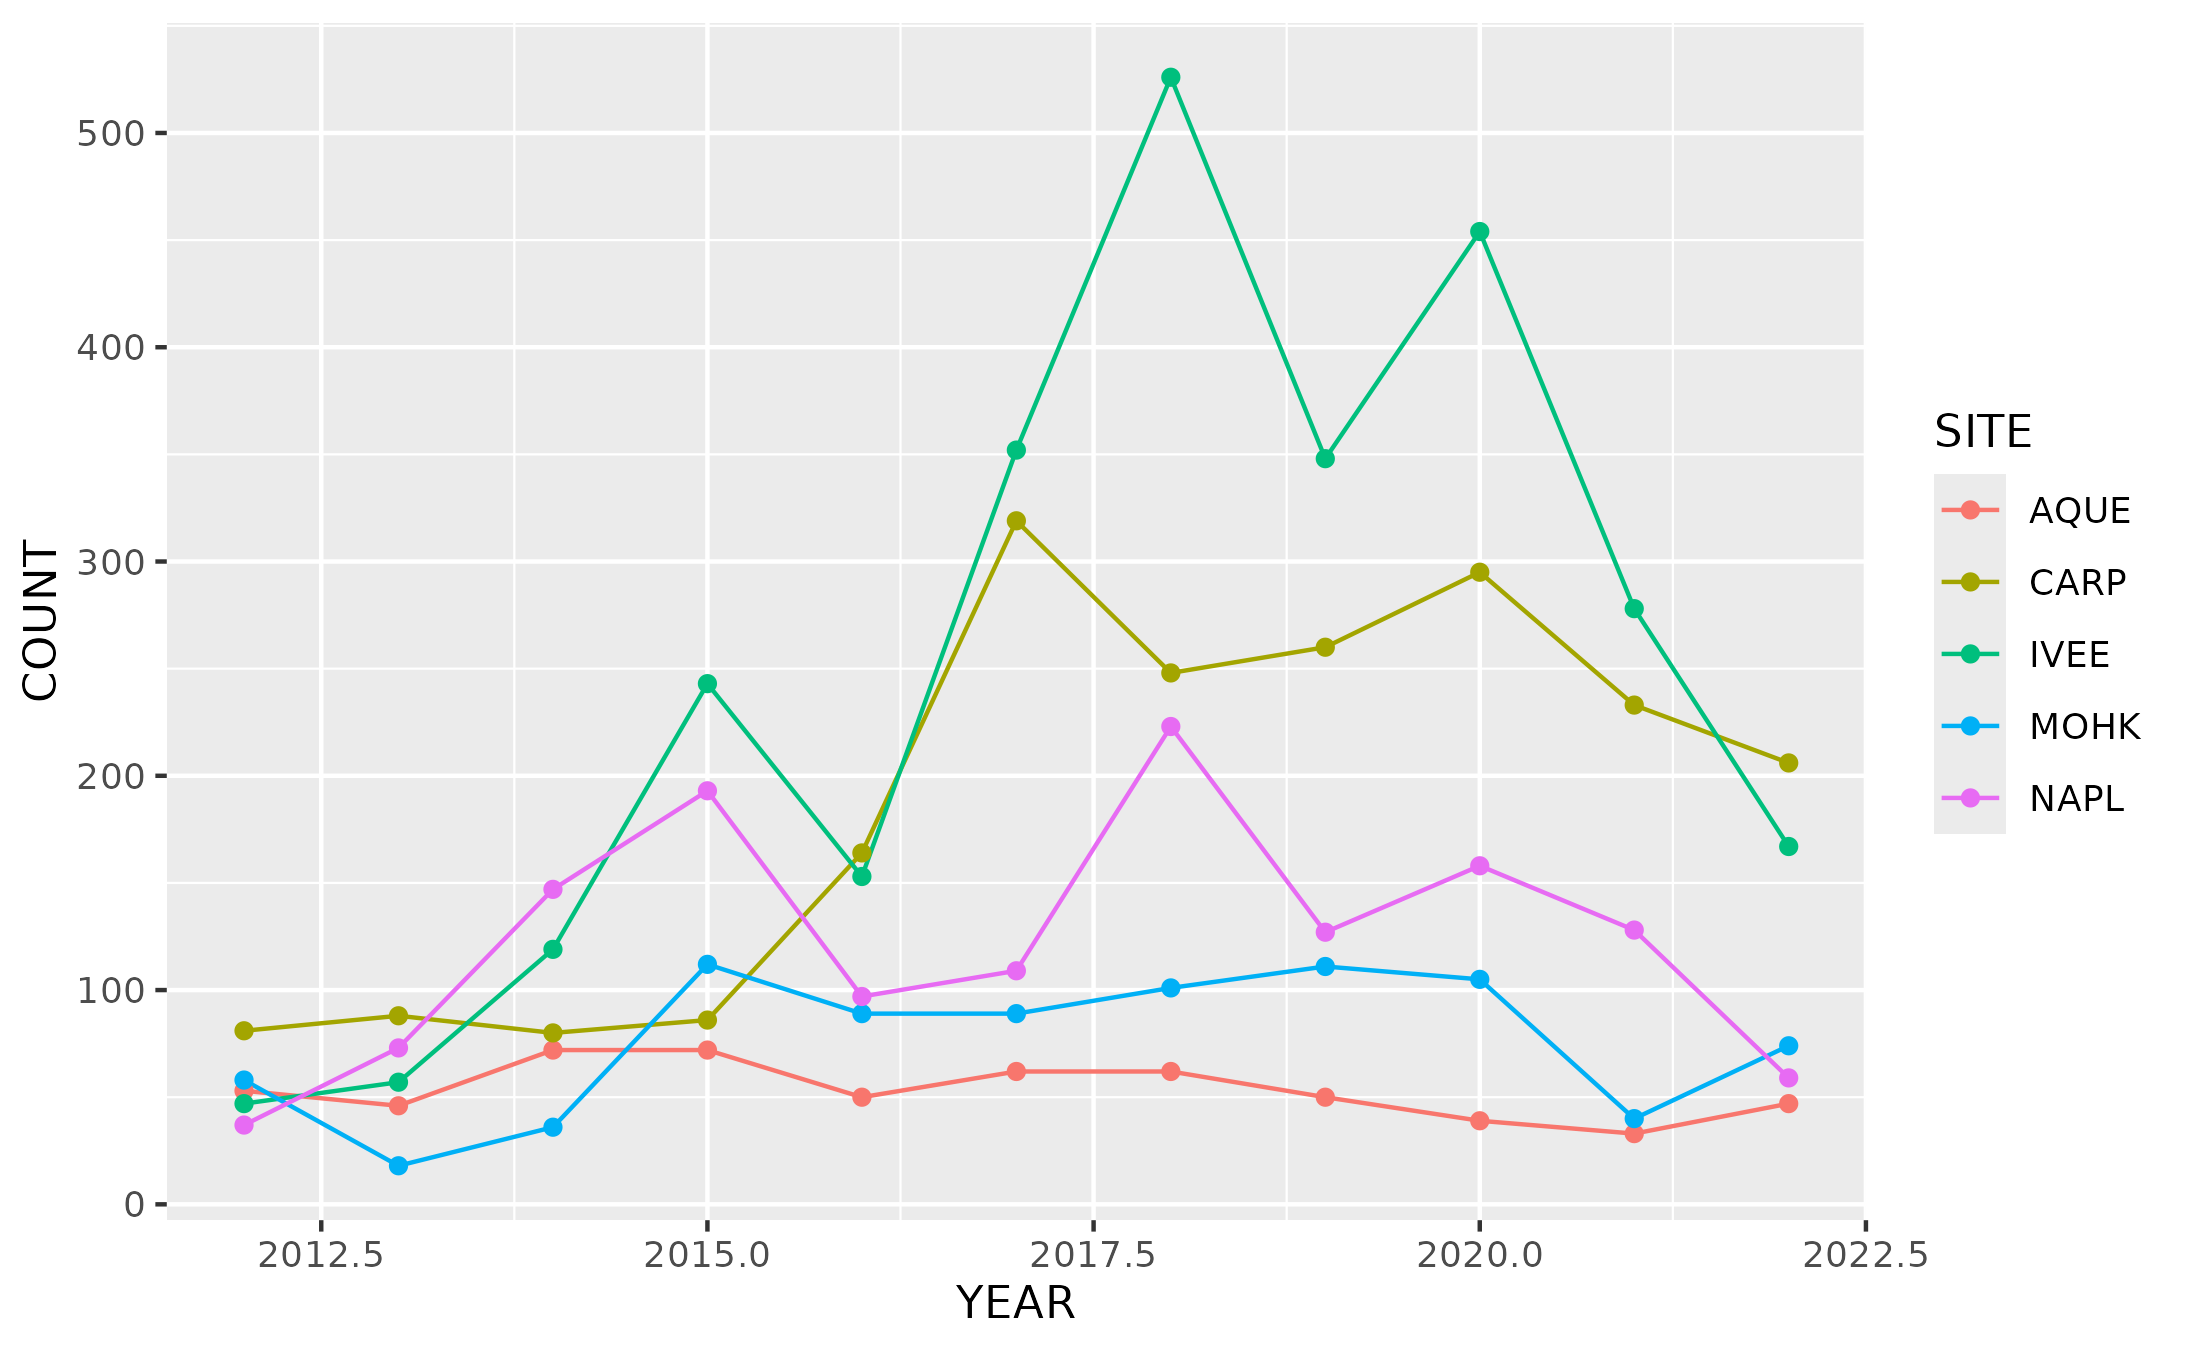
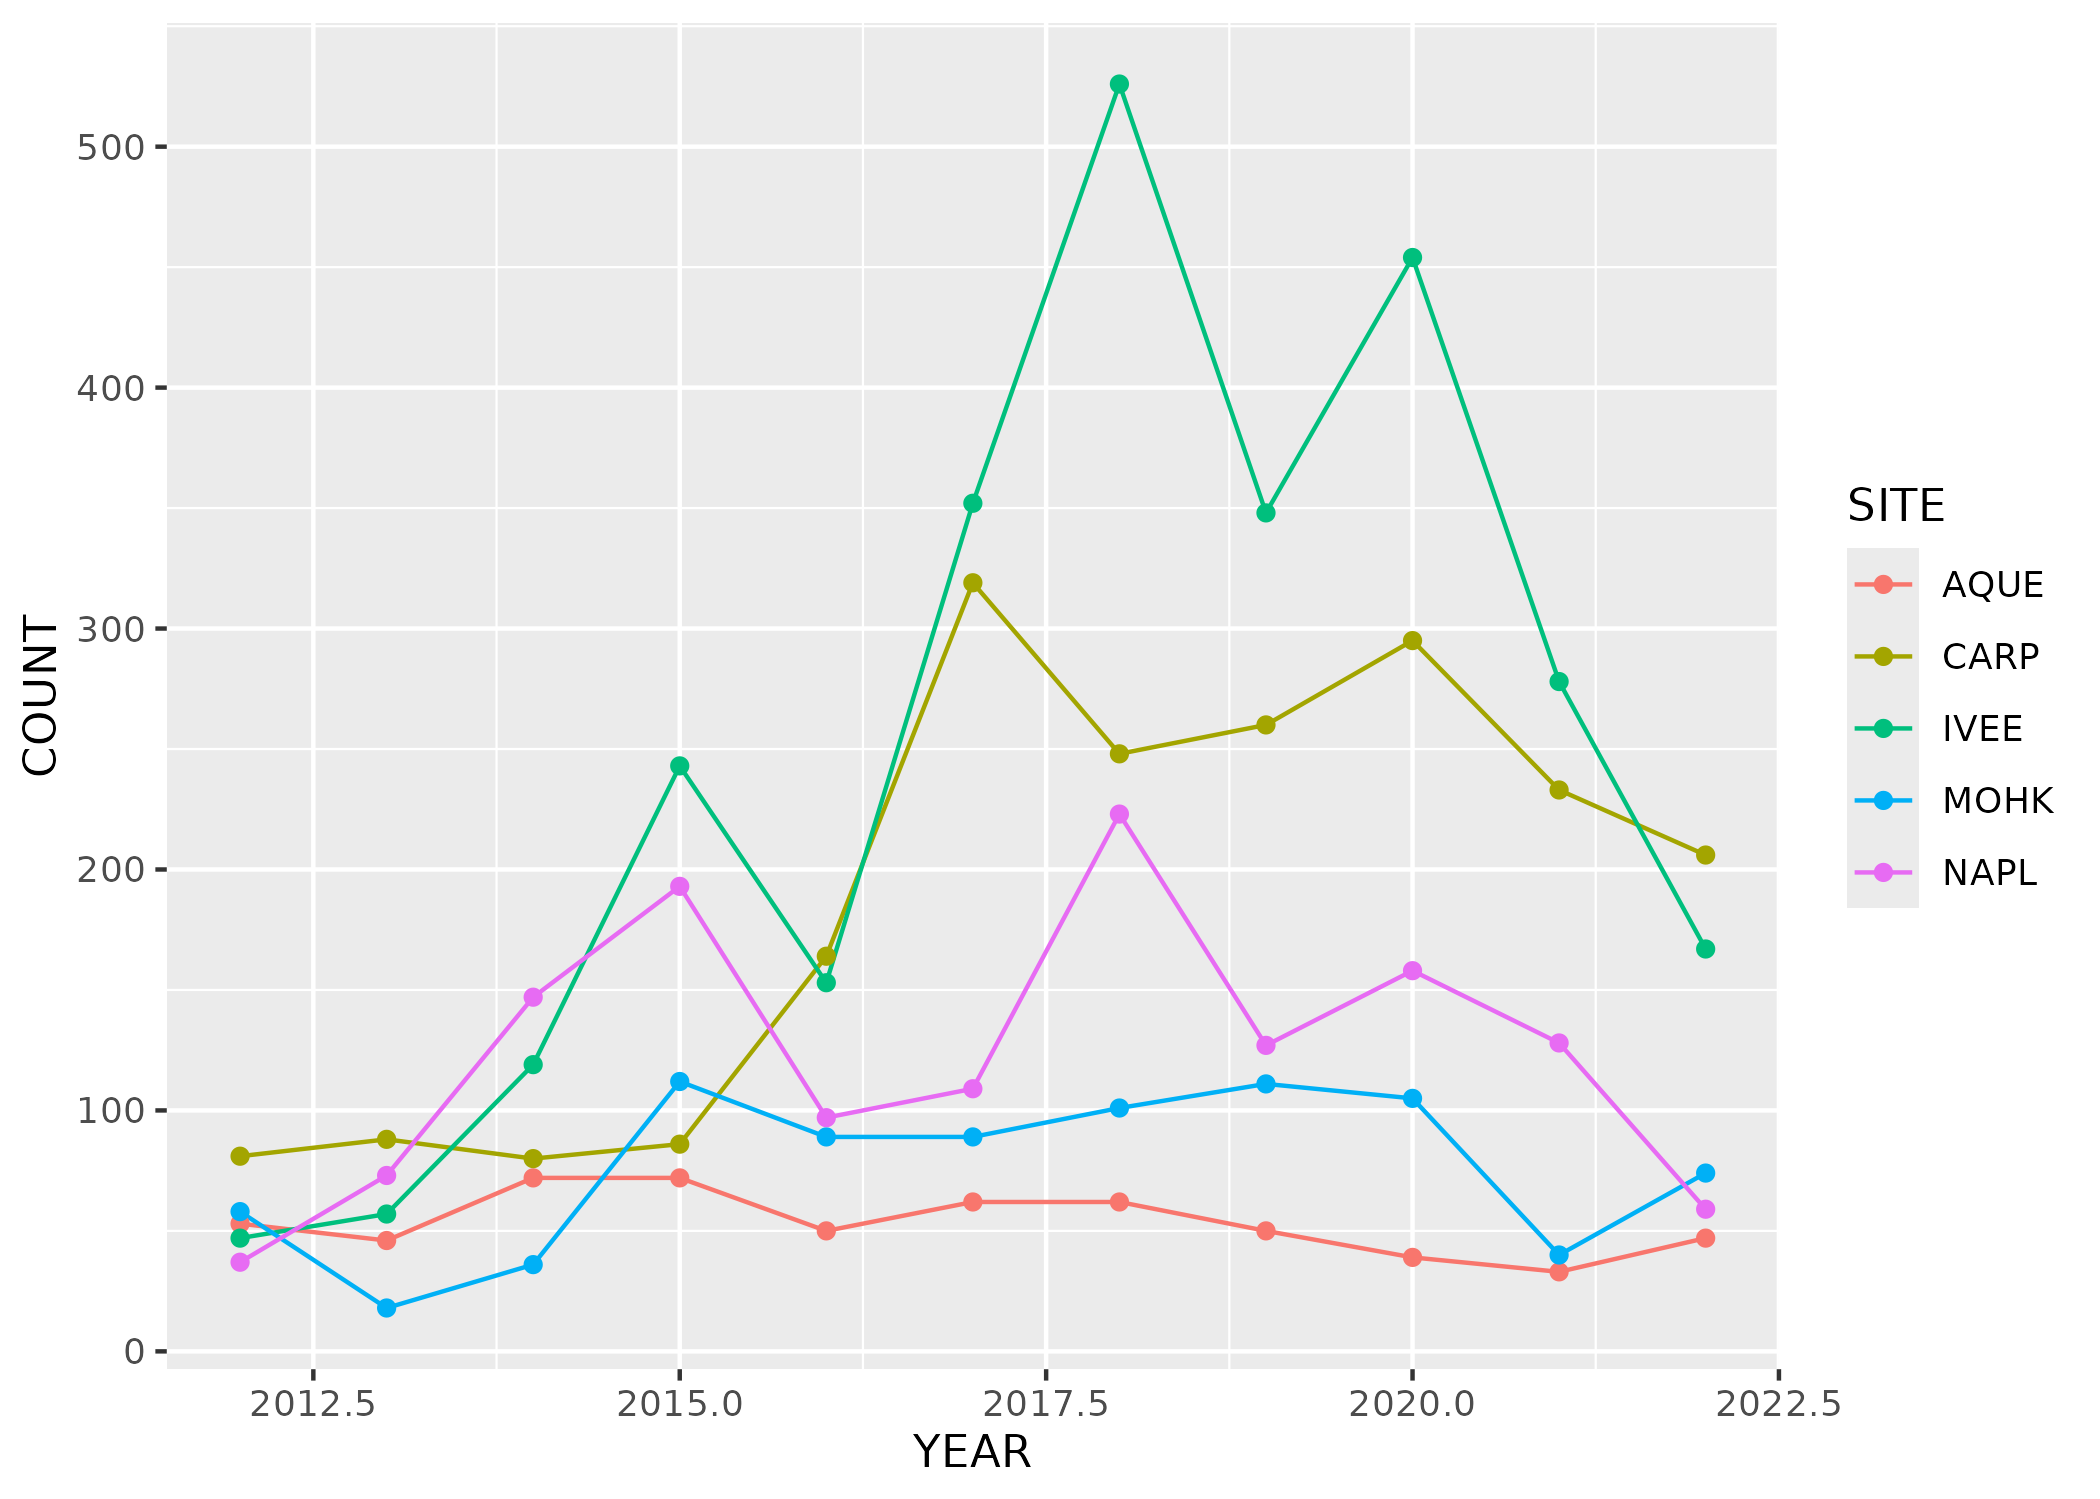
html renders

diff --git a/analysis/lobster-report.html b/analysis/lobster-report.html
@@ -20,29 +20,6 @@ ul.task-list li input[type="checkbox"] {
   margin: 0 0.8em 0.2em -1em; /* quarto-specific, see https://github.com/quarto-dev/quarto-cli/issues/4556 */ 
   vertical-align: middle;
 }
-<<<<<<< HEAD
-/* CSS for citations */
-div.csl-bib-body { }
-div.csl-entry {
-  clear: both;
-  margin-bottom: 0em;
-}
-.hanging-indent div.csl-entry {
-  margin-left:2em;
-  text-indent:-2em;
-}
-div.csl-left-margin {
-  min-width:2em;
-  float:left;
-}
-div.csl-right-inline {
-  margin-left:2em;
-  padding-left:1em;
-}
-div.csl-indent {
-  margin-left: 2em;
-}</style>
-=======
 /* CSS for syntax highlighting */
 pre > code.sourceCode { white-space: pre; position: relative; }
 pre > code.sourceCode > span { line-height: 1.25; }
@@ -77,8 +54,27 @@ div.sourceCode
 @media screen {
 pre > code.sourceCode > span > a:first-child::before { text-decoration: underline; }
 }
-</style>
->>>>>>> e3201454c116fc0d03783d6c8d5ebdfc73836a98
+/* CSS for citations */
+div.csl-bib-body { }
+div.csl-entry {
+  clear: both;
+  margin-bottom: 0em;
+}
+.hanging-indent div.csl-entry {
+  margin-left:2em;
+  text-indent:-2em;
+}
+div.csl-left-margin {
+  min-width:2em;
+  float:left;
+}
+div.csl-right-inline {
+  margin-left:2em;
+  padding-left:1em;
+}
+div.csl-indent {
+  margin-left: 2em;
+}</style>
 
 
 <script src="lobster-report_files/libs/clipboard/clipboard.min.js"></script>
@@ -110,15 +106,12 @@ pre > code.sourceCode > span > a:first-child::before { text-decoration: underlin
 
 <div class="quarto-title-meta">
 
-<<<<<<< HEAD
     <div>
     <div class="quarto-title-meta-heading">Author</div>
     <div class="quarto-title-meta-contents">
              <p>Rachel de Sobrino, Raven Dawson </p>
           </div>
   </div>
-=======
->>>>>>> e3201454c116fc0d03783d6c8d5ebdfc73836a98
     
   
     
@@ -129,39 +122,78 @@ pre > code.sourceCode > span > a:first-child::before { text-decoration: underlin
 </header>
 
 
-<<<<<<< HEAD
 <section id="data" class="level2">
 <h2 class="anchored" data-anchor-id="data">Data</h2>
 <p>Data on abundance, size and fishing pressure of California spiny lobster (Panulirus interruptus) are collected along the mainland coast of the Santa Barbara Channel. Spiny lobsters are an important predator in giant kelp forests off southern California. <span class="citation" data-cites="lter2022">(<a href="#ref-lter2022" role="doc-biblioref">LTER, Reed, and Miller 2022</a>)</span></p>
-
 </section>
+<section id="when-and-where-are-lobsters-found" class="level2">
+<h2 class="anchored" data-anchor-id="when-and-where-are-lobsters-found">When and where are lobsters found?</h2>
+<div class="cell">
+<div class="sourceCode cell-code" id="cb1"><pre class="sourceCode r code-with-copy"><code class="sourceCode r"><span id="cb1-1"><a href="#cb1-1" aria-hidden="true" tabindex="-1"></a>lobster_abundance <span class="ot">&lt;-</span> <span class="fu">read_csv</span>(<span class="st">"../data/Lobster_Abundance_All_Years_20220829.csv"</span>)</span></code><button title="Copy to Clipboard" class="code-copy-button"><i class="bi"></i></button></pre></div>
+<div class="cell-output cell-output-stderr">
+<pre><code>Rows: 7574 Columns: 10
+── Column specification ────────────────────────────────────────────────────────
+Delimiter: ","
+chr  (2): SITE, REPLICATE
+dbl  (7): YEAR, MONTH, TRANSECT, SIZE_MM, COUNT, NUM_AO, AREA
+date (1): DATE
 
-<div id="quarto-appendix" class="default"><section class="quarto-appendix-contents" role="doc-bibliography" id="quarto-bibliography"><h2 class="anchored quarto-appendix-heading">References</h2><div id="refs" class="references csl-bib-body hanging-indent" data-entry-spacing="0" role="list">
-<div id="ref-lter2022" class="csl-entry" role="listitem">
-LTER, Santa Barbara Coastal, Daniel C Reed, and Robert J Miller. 2022. <span>“SBC LTER: Reef: Abundance, Size and Fishing Effort for California Spiny Lobster (Panulirus Interruptus), Ongoing Since 2012.”</span> Environmental Data Initiative. <a href="https://doi.org/10.6073/PASTA/25AA371650A671BAFAD64DD25A39EE18">https://doi.org/10.6073/PASTA/25AA371650A671BAFAD64DD25A39EE18</a>.
+ℹ Use `spec()` to retrieve the full column specification for this data.
+ℹ Specify the column types or set `show_col_types = FALSE` to quiet this message.</code></pre>
 </div>
-</div></section></div></main>
-=======
-<section id="quarto" class="level2">
-<h2 class="anchored" data-anchor-id="quarto">Quarto</h2>
-<p>Quarto enables you to weave together content and executable code into a finished document. To learn more about Quarto see <a href="https://quarto.org" class="uri">https://quarto.org</a>.</p>
+<div class="sourceCode cell-code" id="cb3"><pre class="sourceCode r code-with-copy"><code class="sourceCode r"><span id="cb3-1"><a href="#cb3-1" aria-hidden="true" tabindex="-1"></a>lobster_clean <span class="ot">&lt;-</span> lobster_abundance <span class="sc">%&gt;%</span> </span>
+<span id="cb3-2"><a href="#cb3-2" aria-hidden="true" tabindex="-1"></a>  <span class="fu">mutate</span>(<span class="at">SIZE_MM =</span> <span class="fu">na_if</span>(SIZE_MM, <span class="sc">-</span><span class="dv">99999</span>))</span>
+<span id="cb3-3"><a href="#cb3-3" aria-hidden="true" tabindex="-1"></a></span>
+<span id="cb3-4"><a href="#cb3-4" aria-hidden="true" tabindex="-1"></a>lobster_summarize <span class="ot">&lt;-</span> lobster_clean <span class="sc">%&gt;%</span> </span>
+<span id="cb3-5"><a href="#cb3-5" aria-hidden="true" tabindex="-1"></a>  <span class="fu">group_by</span>(SITE, YEAR) <span class="sc">%&gt;%</span> </span>
+<span id="cb3-6"><a href="#cb3-6" aria-hidden="true" tabindex="-1"></a>  <span class="fu">summarize</span>(<span class="at">COUNT =</span> <span class="fu">n</span>()) <span class="do">## what's this?? </span></span></code><button title="Copy to Clipboard" class="code-copy-button"><i class="bi"></i></button></pre></div>
+<div class="cell-output cell-output-stderr">
+<pre><code>`summarise()` has grouped output by 'SITE'. You can override using the
+`.groups` argument.</code></pre>
+</div>
+<div class="sourceCode cell-code" id="cb5"><pre class="sourceCode r code-with-copy"><code class="sourceCode r"><span id="cb5-1"><a href="#cb5-1" aria-hidden="true" tabindex="-1"></a><span class="fu">ggplot</span>(<span class="at">data =</span> lobster_summarize, <span class="fu">aes</span>(<span class="at">x =</span> YEAR, <span class="at">y=</span>COUNT, <span class="at">color=</span>SITE)) <span class="sc">+</span> </span>
+<span id="cb5-2"><a href="#cb5-2" aria-hidden="true" tabindex="-1"></a>  <span class="fu">geom_line</span>() <span class="sc">+</span></span>
+<span id="cb5-3"><a href="#cb5-3" aria-hidden="true" tabindex="-1"></a>  <span class="fu">geom_point</span>()</span></code><button title="Copy to Clipboard" class="code-copy-button"><i class="bi"></i></button></pre></div>
+<div class="cell-output-display">
+<div>
+<figure class="figure">
+<p><img src="lobster-report_files/figure-html/unnamed-chunk-2-1.png" class="img-fluid figure-img" width="672"></p>
+</figure>
+</div>
+</div>
+<div class="sourceCode cell-code" id="cb6"><pre class="sourceCode r code-with-copy"><code class="sourceCode r"><span id="cb6-1"><a href="#cb6-1" aria-hidden="true" tabindex="-1"></a><span class="fu">ggsave</span>(<span class="st">"../figs/v1.png"</span>)</span></code><button title="Copy to Clipboard" class="code-copy-button"><i class="bi"></i></button></pre></div>
+<div class="cell-output cell-output-stderr">
+<pre><code>Saving 7 x 5 in image</code></pre>
+</div>
+</div>
 </section>
-<section id="running-code" class="level2">
-<h2 class="anchored" data-anchor-id="running-code">Running Code</h2>
-<p>When you click the <strong>Render</strong> button a document will be generated that includes both content and the output of embedded code. You can embed code like this:</p>
+<section id="how-big-are-the-lobsters" class="level2">
+<h2 class="anchored" data-anchor-id="how-big-are-the-lobsters">How big are the lobsters?</h2>
 <div class="cell">
-<div class="sourceCode cell-code" id="cb1"><pre class="sourceCode r code-with-copy"><code class="sourceCode r"><span id="cb1-1"><a href="#cb1-1" aria-hidden="true" tabindex="-1"></a><span class="dv">1</span> <span class="sc">+</span> <span class="dv">1</span></span></code><button title="Copy to Clipboard" class="code-copy-button"><i class="bi"></i></button></pre></div>
-<div class="cell-output cell-output-stdout">
-<pre><code>[1] 2</code></pre>
+<div class="sourceCode cell-code" id="cb8"><pre class="sourceCode r code-with-copy"><code class="sourceCode r"><span id="cb8-1"><a href="#cb8-1" aria-hidden="true" tabindex="-1"></a>lobster_size_lrg <span class="ot">&lt;-</span> lobster_clean <span class="sc">%&gt;%</span> </span>
+<span id="cb8-2"><a href="#cb8-2" aria-hidden="true" tabindex="-1"></a>  <span class="fu">filter</span>(YEAR <span class="sc">%in%</span> <span class="fu">c</span>(<span class="st">"2019"</span>, <span class="st">"2020"</span>, <span class="st">"2021"</span>)) <span class="sc">%&gt;%</span> </span>
+<span id="cb8-3"><a href="#cb8-3" aria-hidden="true" tabindex="-1"></a>  <span class="fu">mutate</span>(<span class="at">SIZE_BIN =</span> <span class="fu">if_else</span>(SIZE_MM <span class="sc">&lt;=</span> <span class="dv">70</span>, <span class="st">"SMALL"</span>, <span class="st">"LARGE"</span>)) <span class="sc">%&gt;%</span> </span>
+<span id="cb8-4"><a href="#cb8-4" aria-hidden="true" tabindex="-1"></a>  <span class="fu">group_by</span>(SIZE_BIN) <span class="sc">%&gt;%</span> </span>
+<span id="cb8-5"><a href="#cb8-5" aria-hidden="true" tabindex="-1"></a>  <span class="fu">summarize</span>(<span class="at">COUNT =</span> <span class="fu">n</span>()) <span class="sc">%&gt;%</span> </span>
+<span id="cb8-6"><a href="#cb8-6" aria-hidden="true" tabindex="-1"></a>  <span class="fu">drop_na</span>()</span>
+<span id="cb8-7"><a href="#cb8-7" aria-hidden="true" tabindex="-1"></a></span>
+<span id="cb8-8"><a href="#cb8-8" aria-hidden="true" tabindex="-1"></a><span class="fu">ggplot</span>(<span class="at">data=</span>lobster_size_lrg, <span class="fu">aes</span>(<span class="at">x=</span>SIZE_BIN, <span class="at">y =</span> COUNT)) <span class="sc">+</span></span>
+<span id="cb8-9"><a href="#cb8-9" aria-hidden="true" tabindex="-1"></a>  <span class="fu">geom_col</span>(<span class="fu">aes</span>(<span class="at">fill=</span>SIZE_BIN)) <span class="sc">+</span></span>
+<span id="cb8-10"><a href="#cb8-10" aria-hidden="true" tabindex="-1"></a>  <span class="fu">labs</span>(<span class="at">title =</span> <span class="st">"Sizes of Lobsters"</span>, <span class="at">x =</span> <span class="st">"Size"</span>, <span class="at">y =</span> <span class="st">"Count"</span>) <span class="sc">+</span></span>
+<span id="cb8-11"><a href="#cb8-11" aria-hidden="true" tabindex="-1"></a>  <span class="fu">theme_minimal</span>() <span class="sc">+</span></span>
+<span id="cb8-12"><a href="#cb8-12" aria-hidden="true" tabindex="-1"></a>  <span class="fu">theme</span>(<span class="at">plot.background =</span> <span class="fu">element_rect</span>(<span class="at">fill =</span> <span class="st">"green"</span>))</span></code><button title="Copy to Clipboard" class="code-copy-button"><i class="bi"></i></button></pre></div>
+<div class="cell-output-display">
+<div>
+<figure class="figure">
+<p><img src="lobster-report_files/figure-html/unnamed-chunk-3-1.png" class="img-fluid figure-img" width="672"></p>
+</figure>
 </div>
 </div>
-<p>You can add options to executable code like this</p>
-<div class="cell">
-<div class="cell-output cell-output-stdout">
-<pre><code>[1] 4</code></pre>
+<div class="sourceCode cell-code" id="cb9"><pre class="sourceCode r code-with-copy"><code class="sourceCode r"><span id="cb9-1"><a href="#cb9-1" aria-hidden="true" tabindex="-1"></a>  <span class="fu">ggsave</span>(<span class="st">"../figs/v2.png"</span>)</span></code><button title="Copy to Clipboard" class="code-copy-button"><i class="bi"></i></button></pre></div>
+<div class="cell-output cell-output-stderr">
+<pre><code>Saving 7 x 5 in image</code></pre>
 </div>
 </div>
-<p>The <code>echo: false</code> option disables the printing of code (only output is displayed).</p>
 </section>
 <section id="collaborator-analysis" class="level1">
 <h1>Collaborator analysis</h1>
@@ -172,10 +204,14 @@ LTER, Santa Barbara Coastal, Daniel C Reed, and Robert J Miller. 2022. <span>“
 <figcaption>Fishing pressure</figcaption>
 </figure>
 </div>
+
 </section>
 
-</main>
->>>>>>> e3201454c116fc0d03783d6c8d5ebdfc73836a98
+<div id="quarto-appendix" class="default"><section class="quarto-appendix-contents" role="doc-bibliography" id="quarto-bibliography"><h2 class="anchored quarto-appendix-heading">References</h2><div id="refs" class="references csl-bib-body hanging-indent" data-entry-spacing="0" role="list">
+<div id="ref-lter2022" class="csl-entry" role="listitem">
+LTER, Santa Barbara Coastal, Daniel C Reed, and Robert J Miller. 2022. <span>“SBC LTER: Reef: Abundance, Size and Fishing Effort for California Spiny Lobster (Panulirus Interruptus), Ongoing Since 2012.”</span> Environmental Data Initiative. <a href="https://doi.org/10.6073/PASTA/25AA371650A671BAFAD64DD25A39EE18">https://doi.org/10.6073/PASTA/25AA371650A671BAFAD64DD25A39EE18</a>.
+</div>
+</div></section></div></main>
 <!-- /main column -->
 <script id="quarto-html-after-body" type="application/javascript">
 window.document.addEventListener("DOMContentLoaded", function (event) {
